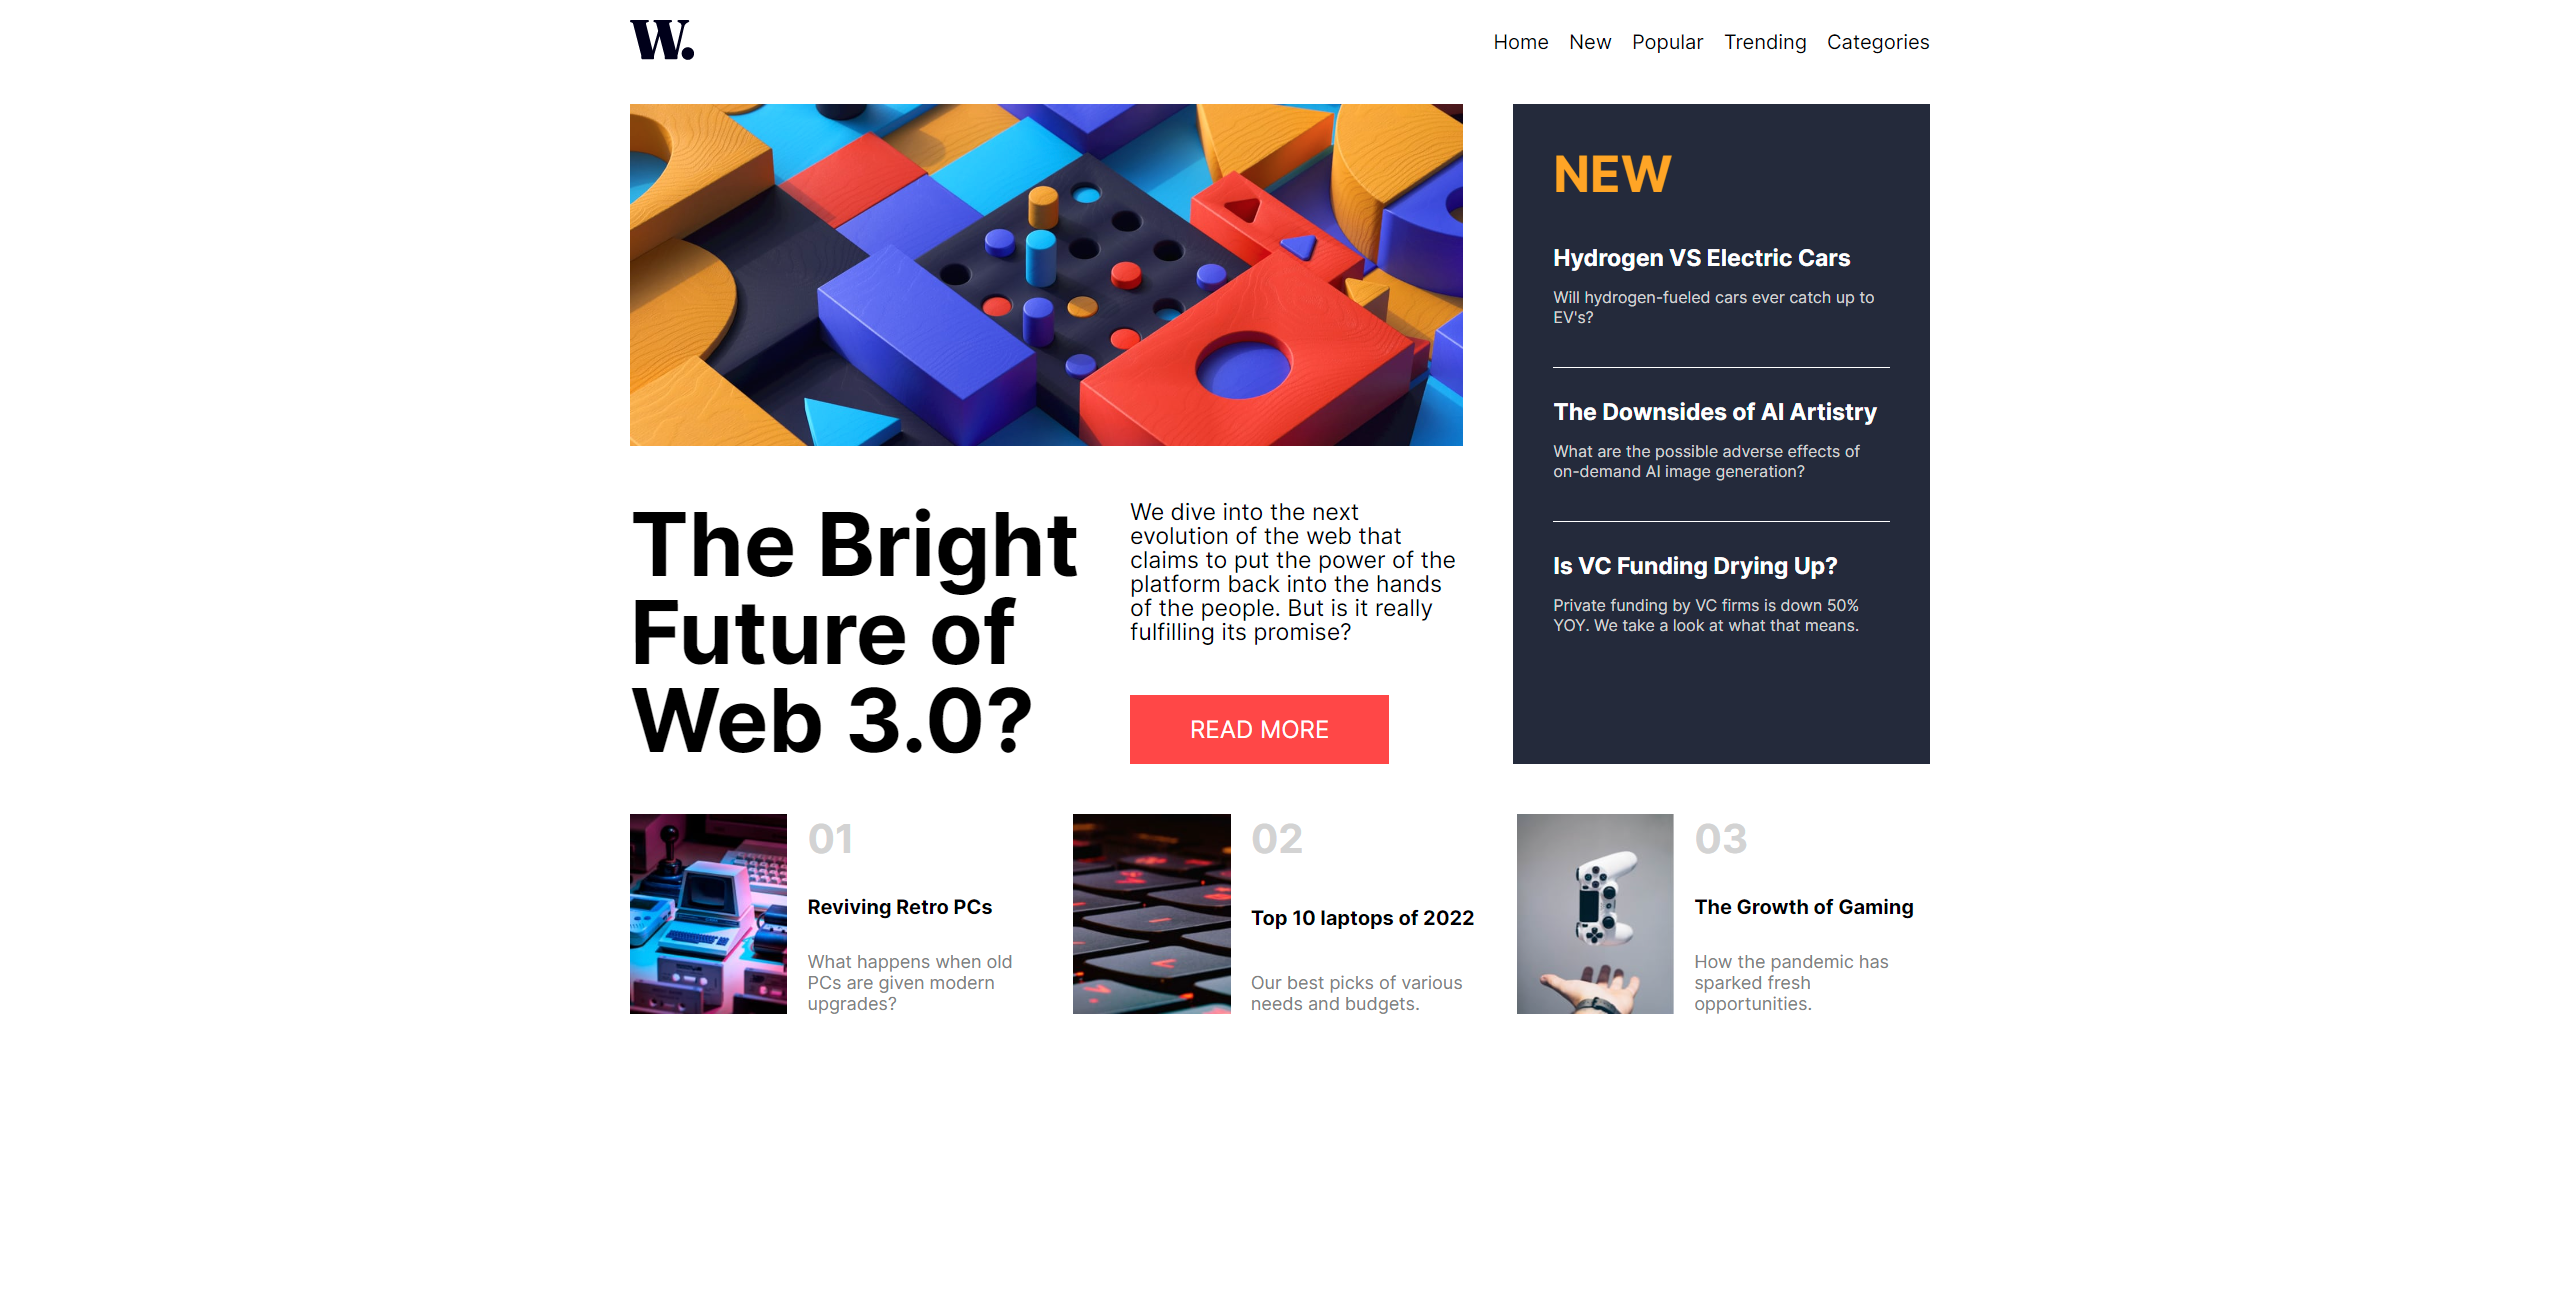
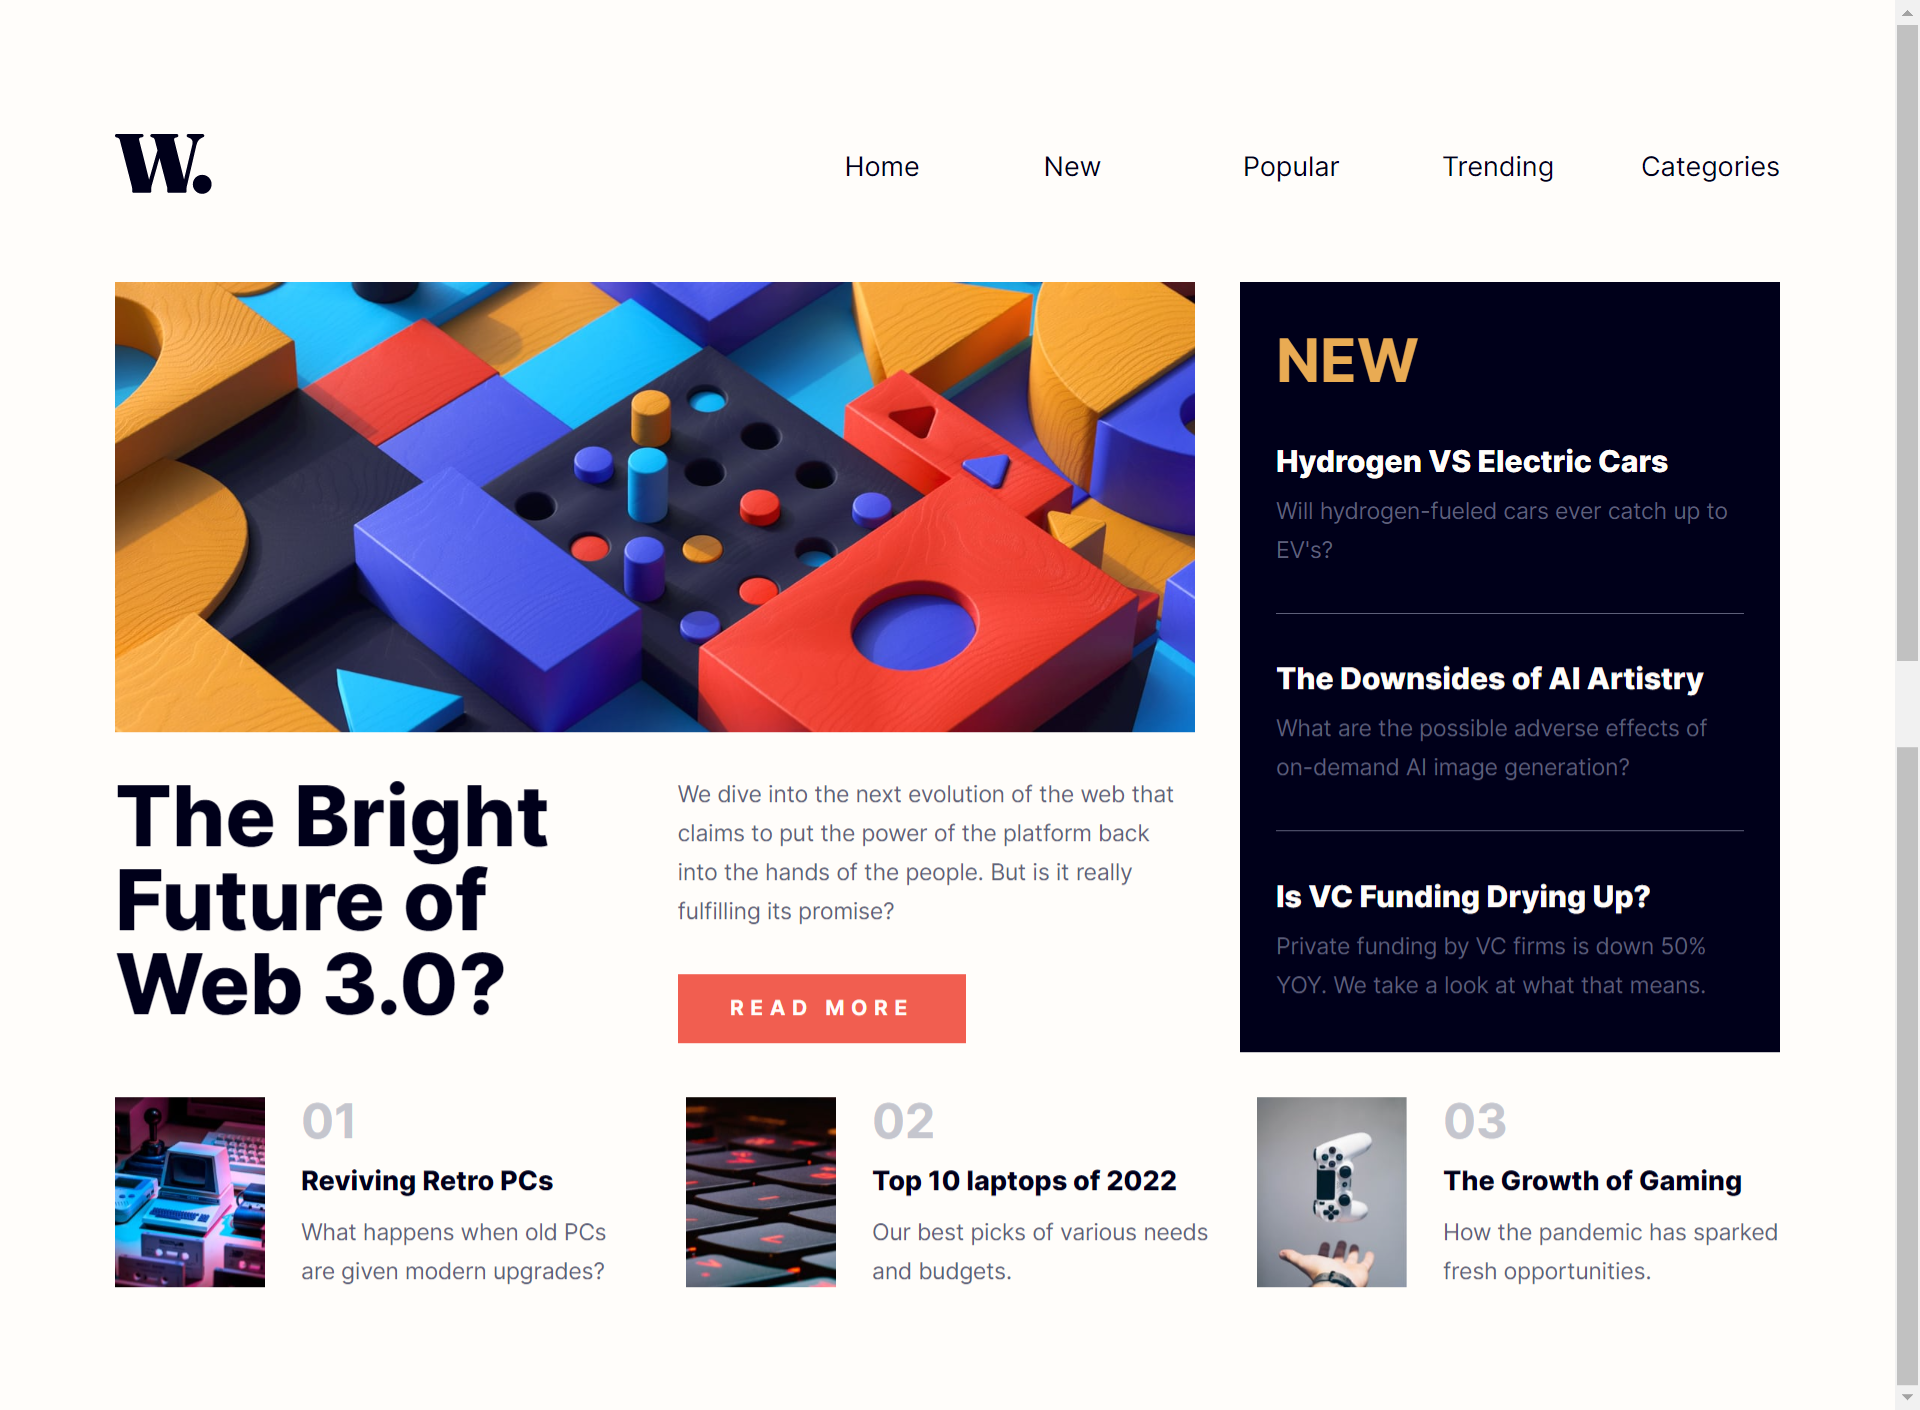
Finished desktop view and added hover styles.

diff --git a/news-homepage/src/components/Layout/Header.module.scss b/news-homepage/src/components/Layout/Header.module.scss
@@ -1,119 +1,148 @@
 @import "../../variables.scss";
 
 .header {
-    width: 100%;
-    display: flex;
-    justify-content: space-between;
-    align-items: center;
-    padding: 28px 16px;
-    margin-bottom: 4px;
-    position: relative;
+  width: 100%;
+  display: flex;
+  justify-content: space-between;
+  align-items: center;
+  padding: 28px 16px;
+  margin-bottom: 4px;
+  position: relative;
 
-    .backdrop {
-        position: fixed;
-        background-color: hsla(240, 100%, 5%, .5);
-        width: 100vw;
-        height: 100%;
-        top: 0;
-        right: -100%;
-        opacity: 0;
-        transition:
-            opacity 500ms ease-in, 
-            right 500ms ease-in 500ms;
+  .backdrop {
+    position: fixed;
+    background-color: hsla(240, 100%, 5%, 0.5);
+    width: 100vw;
+    height: 100%;
+    top: 0;
+    right: -100%;
+    opacity: 0;
+    transition: opacity 500ms ease-in, right 500ms ease-in 500ms;
+  }
+
+  .backdrop.active {
+    right: 0;
+    opacity: 1;
+    transition: right 0ms ease-in, opacity 500ms ease-in;
+  }
+
+  .navbar {
+    height: 100%;
+    padding: 144px 25px;
+    background-color: $white;
+    position: fixed;
+    top: 0;
+    right: -100%;
+    transition: right 500ms ease-in;
+
+    .navLinks {
+      width: 256px;
+      max-width: 100%;
+      list-style: none;
+      display: grid;
+      grid-template-columns: 1fr;
+      gap: 24px;
+
+      .navLink {
+        font-size: 18px;
+        line-height: 24px;
+        font-weight: 400px;
+        text-align: start;
+        transition: .2s ease-in;
+      }
+
+      .navLink:hover {
+        color: $red;
+        cursor: pointer;
+      }
+    }
+  }
+
+  .navbar.active {
+    right: 0;
+    transition: right 500ms ease-in;
+  }
+
+  .hamburger {
+    position: relative;
+    width: 40px;
+    height: 28px;
+    display: flex;
+    flex-direction: column;
+    justify-content: center;
+
+    .hamburgerBar {
+      width: 100%;
+      height: 3px;
+      background-color: $very-dark-blue;
+      z-index: 5;
+      transform-origin: center;
+      transition: opacity 0ms 250ms, top 250ms ease-in 250ms,
+        bottom 250ms ease-in 250ms, rotate 250ms ease-in;
     }
 
-    .backdrop.active {
-        right: 0;
-        opacity: 1;
-        transition: 
-            right 0ms ease-in,
-            opacity 500ms ease-in;
+    .barOne {
+      position: absolute;
+      top: 5px;
+    }
+
+    .barThree {
+      position: absolute;
+      bottom: 5px;
+    }
+  }
+
+  .hamburger.active {
+    .hamburgerBar {
+      transition: top 250ms ease-in, bottom 250ms ease-in,
+        rotate 250ms ease-in 250ms;
+    }
+
+    .barOne {
+      top: calc(50% - 3px);
+      rotate: 45deg;
+    }
+
+    .barTwo {
+      opacity: 0;
+      transition: 250ms;
+    }
+
+    .barThree {
+      bottom: 50%;
+      rotate: -45deg;
+    }
+  }
+
+  @media screen and (min-width: $tablet) {
+    max-width: 1110px;
+    padding: 55px 0;
+    padding-bottom: 55px;
+    margin: 0 auto;
+    margin-top: 34px;
+
+    .backdrop {
+      display: none;
     }
 
     .navbar {
-        height: 100%;
-        padding: 144px 25px;
-        background-color: $white;
-        position: fixed;
-        top: 0;
-        right: -100%;
-        transition: right 500ms ease-in;
-        
-        .navLinks {
-            width: 256px;
-            max-width: 100%;
-            list-style: none;
-            display: grid;
-            grid-template-columns: 1fr;
-            gap: 24px;
+      display: block;
+      position: relative;
+      right: 0;
+      transition: none;
+      height: auto;
+      padding: 0;
 
-            .navLink {
-                font-size: 18px;
-                line-height: 24px;
-                font-weight: 400px;
-                text-align: start;
-            }
-        }
-    }
-
-    .navbar.active {
-        right: 0;
-        transition: right 500ms ease-in;
+      .navLinks {
+        width: fit-content;
+        display: grid;
+        grid-template-columns: repeat(5, 1fr);
+        gap: 40px;
+      }
     }
 
     .hamburger {
-        position: relative;
-        width: 40px;
-        height: 28px;
-        display: flex;
-        flex-direction: column;
-        justify-content: center;
-         
-        .hamburgerBar {
-            width: 100%;
-            height: 3px;
-            background-color: $very-dark-blue;
-            z-index: 5;
-            transform-origin: center;
-            transition:
-                opacity 0ms 250ms, 
-                top 250ms ease-in 250ms,
-                bottom 250ms ease-in 250ms,
-                rotate 250ms ease-in;
-        }
-
-        .barOne {
-            position: absolute;
-            top: 5px;
-        }
-
-        .barThree {
-            position: absolute;
-            bottom: 5px;
-        }
+      display: none;
     }
-
-    .hamburger.active {
-        .hamburgerBar {
-            transition: 
-                top 250ms ease-in,
-                bottom 250ms ease-in,
-                rotate 250ms ease-in 250ms;
-        }
-
-        .barOne {
-            top: calc(50% - 3px);
-            rotate: 45deg;
-        }
-
-        .barTwo {
-            opacity: 0;
-            transition: 250ms;
-        }
-
-        .barThree {
-            bottom: 50%;
-            rotate: -45deg;
-        }
-    }
+  }
 }

diff --git a/news-homepage/src/components/MainArticle/MainArticle.module.scss b/news-homepage/src/components/MainArticle/MainArticle.module.scss
@@ -24,6 +24,7 @@
             font-size: 40px;
             line-height: 40px;
             font-weight: 800;
+            text-align: start;
         }
         
         .rightText {
@@ -35,6 +36,7 @@
                 font-size: 15px;
                 line-height: 26px;
                 font-weight: 400;
+                text-align: start;
                 color: $dark-blue;
             }
 
@@ -48,14 +50,36 @@
                 background-color: $red;
                 padding: 11px 35px;
                 border: none;
-                
+                transition: .2s ease-in;
+            }
+
+            .btn:hover {
+                cursor: pointer;
+                color: $white;
+                background-color: $very-dark-blue;
             }
         }
     }
 
     @media screen and (min-width: $tablet) {
+        gap: 28px;
+        
         .imageContainer {
             background-image: url("../../assets/images/image-web-3-desktop.jpg");
+        }
+
+        .articleText {
+            grid-template-columns: 1fr 1fr;
+            gap: 30px;
+
+            .title {
+                font-size: 56px;
+                line-height: 56px;
+            }
+
+            .rightText {
+                gap: 29px;
+            }
         }
     }
 }

diff --git a/news-homepage/src/components/Content/Content.module.scss b/news-homepage/src/components/Content/Content.module.scss
@@ -1,7 +1,17 @@
+@import "../../variables.scss";
+
 .container {
     display: grid;
     grid-template-columns: 1fr;
     gap: 64px;
     width: 100%;
     padding: 0 16px;
+
+    @media screen and (min-width: $tablet) {
+        grid-template-columns: 2fr 1fr;
+        gap: 30px;
+        max-width: 1110px;
+        margin: 0 auto;
+        padding: 0;
+    }
 }

diff --git a/news-homepage/src/components/TopThreeArticles/TopThreeArticles.module.scss b/news-homepage/src/components/TopThreeArticles/TopThreeArticles.module.scss
@@ -1,6 +1,14 @@
+@import "../../variables.scss";
+
 .container {
     display: grid;
     grid-template-columns: 1fr;
     gap: 32px;
     margin-bottom: 80px;
+
+    @media screen and (min-width: $tablet) {
+        grid-column-start: 1;
+        grid-column-end: 3;
+        grid-template-columns: repeat(3, 1fr);
+    }
 }

diff --git a/news-homepage/src/components/TopThreeArticles/TopArticle.module.scss b/news-homepage/src/components/TopThreeArticles/TopArticle.module.scss
@@ -34,6 +34,12 @@
             color: $very-dark-blue;
             text-align: start;
             margin-bottom: 9px;
+            transition: .2s ease-in;
+        }
+
+        .title:hover {
+            color: $red;
+            cursor: pointer;
         }
 
         .description {

diff --git a/news-homepage/src/components/NewArticles/NewArticles.module.scss b/news-homepage/src/components/NewArticles/NewArticles.module.scss
@@ -20,4 +20,13 @@
         flex-direction: column;
         gap: 31px;
     }
+
+    @media screen and (min-width: $tablet) {
+        padding: 32px 24px;
+
+        .title {
+            font-size: 40px;
+            line-height: 40px;
+        }
+    }
 }

diff --git a/news-homepage/src/components/NewArticles/NewArticle.module.scss b/news-homepage/src/components/NewArticles/NewArticle.module.scss
@@ -13,6 +13,12 @@
         font-weight: 800;
         color: $white;
         text-align: start;
+        transition: .2s ease-in;
+    }
+
+    .title:hover {
+        color: $orange;
+        cursor: pointer;
     }
 
     .description {

diff --git a/README.md b/README.md
@@ -30,6 +30,8 @@ Users should be able to:
 ### Screenshot
 
 ![](./screenshot.png)
+![](./screenshot-mobile.png)
+![](./mobile-menu.png)
 
 ### Links
 
